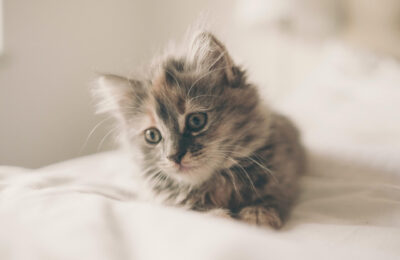
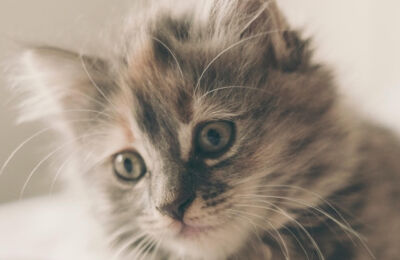
41. Featured Image Sizes and Cropping

diff --git a/src/wp-content/themes/fictional-university-theme/single-program.php b/src/wp-content/themes/fictional-university-theme/single-program.php
@@ -42,7 +42,7 @@
             <?php $professors_query->the_post(); ?>
             <li class="professor-card__list-item">
               <a class="professor-card" href="<?php the_permalink() ?>">
-                <img class="professor-card__image" src="<?php the_post_thumbnail_url() ?>">
+                <img class="professor-card__image" src="<?php the_post_thumbnail_url('professorLandscape') ?>">
                 <span class="professor-card__name"><?php the_title() ?></span>
               </a>
             </li>

diff --git a/src/wp-content/themes/fictional-university-theme/single-professor.php b/src/wp-content/themes/fictional-university-theme/single-professor.php
@@ -17,7 +17,7 @@
         <div class="generic-content">
             <div class="row group">
                 <div class="one-third">
-                    <?php the_post_thumbnail() ?>
+                    <?php the_post_thumbnail('professorPortrait') ?>
                 </div>
                 <div class="two-thirds">
                     <?php the_content() ?>
